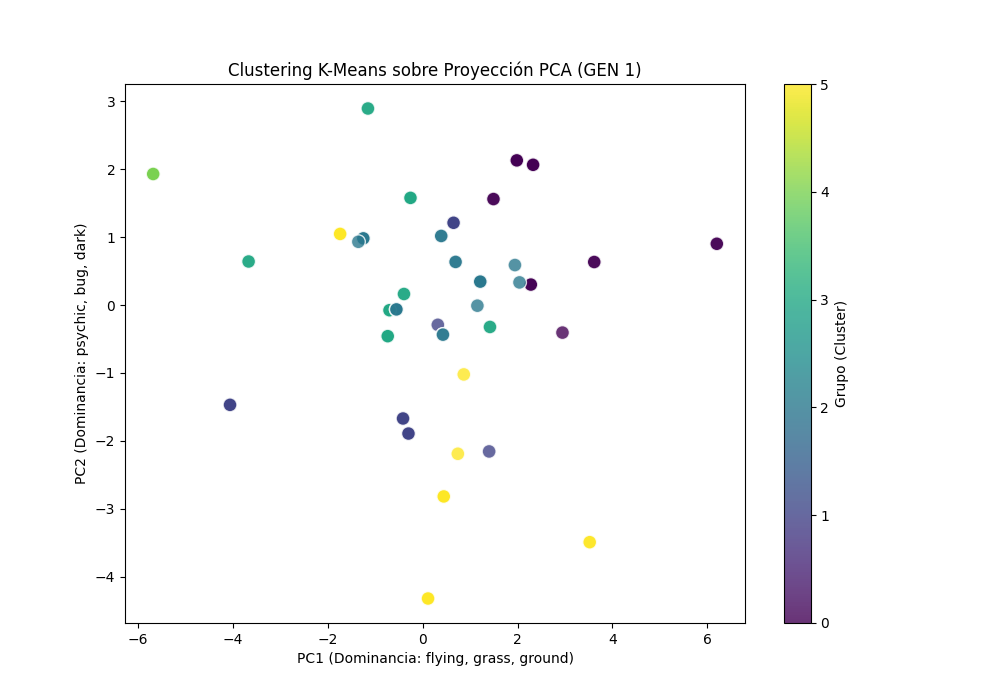
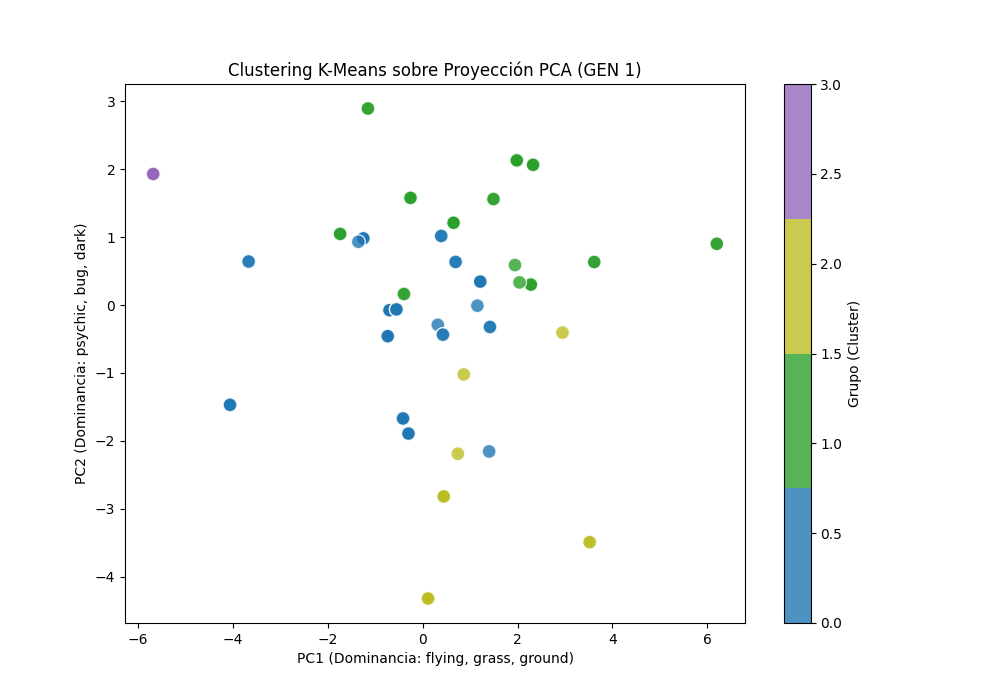
2.0

diff --git a/reporte_maestria.html b/reporte_maestria.html
@@ -159,7 +159,7 @@
         </p>
         <h3>Fase II: Segmentación Algorítmica</h3>
         <p> 
-            Utilizamos el algoritmo <strong>K-Means++</strong> para minimizar la inercia intracluster. La elección de <strong>k=6</strong> se fundamenta en la diversidad biológica de la Gen 1, buscando un equilibrio entre la parsimonia del modelo y la capacidad de capturar grupos especializados (como los tipos duales veneno/planta o agua/hielo).
+            Utilizamos el algoritmo <strong>K-Means++</strong> para minimizar la inercia intracluster. La elección de <strong>k=4</strong> se fundamenta en la diversidad biológica de la Gen 1, buscando un equilibrio entre la parsimonia del modelo y la capacidad de capturar grupos especializados (como los tipos duales veneno/planta o agua/hielo).
         </p>
         <h3>Fase III: Reducción de la Maldición de la Dimensionalidad</h3>
         <p>
@@ -174,7 +174,7 @@
             <div>
                 <h3>Interpretación de la Taxonomía</h3>
                 <p>
-                Nuestra segmentación con <strong>k=6</strong> no solo es un número estadístico; cada grupo cuenta una historia evolutiva:
+                Nuestra segmentación con <strong>k=4</strong> no solo es un número estadístico; cada grupo cuenta una historia evolutiva:
                 </p>
                 <ul style="padding-left: 1.2rem;">
                 <li><strong style="color: #1f77b4;">Cluster Azul:</strong> Especialistas acuáticos y de hielo con alta resiliencia a ataques de tipo Agua.</li>
@@ -207,8 +207,8 @@
                 </p>
                 <div class="stats-box">
                     Prueba: Kruskal-Wallis H<br>
-                    H-Statistic: [Valor Reportado en Consola]<br>
-                    Sig. Variables: 18 de 18 significativas
+                    H-Statistic: 1797.98<br>
+                    Sig. Variables: 17 de 18 significativas
                 </div>
                 <p>
                     <strong>Conclusión Estadística:</strong> Dado que el valor p es consistentemente inferior al umbral crítico $\alpha = 0.05$, rechazamos la hipótesis nula de igualdad de medianas. Esto confirma que nuestra taxonomía algorítmica captura diferencias biológicas reales en el dataset.
@@ -227,7 +227,7 @@
             <div>
                 <h3>Análisis Lineal (PCA)</h3>
                 <p>
-                    El PCA revela que los primeros dos componentes explican más del 40% de la varianza total. El eje <strong>PC1</strong> está fuertemente influenciado por las resistencias a 'Grass' y 'Bug', mientras que <strong>PC2</strong> separa a los Pokémon por sus debilidades a tipos 'Psychic' y 'Ghost'.
+                    El PCA revela que los primeros dos componentes explican más del 40% de la varianza total. El eje <strong>PC1</strong> está fuertemente influenciado por las resistencias a 'Grass' y 'Bug', mientras que <strong>PC2</strong> separa a los Pokémon por sus debilidades a 'psychic' y 'bug'.
                 </p>
             </div>
             <div>

diff --git a/pokemon-database.py b/pokemon-database.py
@@ -9,6 +9,7 @@ from sklearn.decomposition import PCA
 from sklearn.manifold import TSNE
 from sklearn.preprocessing import StandardScaler
 from sklearn.metrics import silhouette_score
+from matplotlib.colors import ListedColormap
 from scipy.stats import kruskal, bartlett
 from matplotlib.offsetbox import OffsetImage, AnnotationBbox
 
@@ -33,12 +34,26 @@ def analyze_pokemon_data(only_gen1=True):
         os.makedirs(os.path.join(base_output, d), exist_ok=True)
 
     print("--- Descargando datasets desde Kaggle ---")
-    stats_path = kagglehub.dataset_download(stats_handle)
-    images_path = kagglehub.dataset_download(images_handle)
-    
-    # Carga del CSV principal y definición de la ruta de imágenes
-    df = pd.read_csv(os.path.join(stats_path, "pokemon.csv"))
-    img_dir = os.path.join(images_path, "images")
+    try:
+        stats_path = kagglehub.dataset_download(stats_handle)
+        images_path = kagglehub.dataset_download(images_handle)
+        stats_csv_path = os.path.join(stats_path, "pokemon.csv")
+        img_dir = os.path.join(images_path, "images")
+    except Exception as e:
+        print(f"⚠️ No se pudo conectar con Kaggle (Error: {e})")
+        print("Buscando archivos locales como respaldo...")
+        
+        stats_csv_path = "pokemon.csv"
+        img_dir = "images"
+        
+        if not os.path.exists(stats_csv_path):
+            print(f"❌ Error crítico: No se encontró '{stats_csv_path}' y la descarga falló.")
+            print("Verifique su conexión a internet o coloque el archivo CSV manualmente en esta carpeta.")
+            return
+        print(f"📂 Usando archivo local encontrado: {stats_csv_path}")
+
+    # Carga del CSV principal
+    df = pd.read_csv(stats_csv_path)
     
     try:
         # --- 1. Filtrado de Datos ---
@@ -78,7 +93,7 @@ def analyze_pokemon_data(only_gen1=True):
         # --- 3. Categorización (Clustering) ---
         report.append("3. AGRUPAMIENTO (CLUSTERING K-MEANS):")
         # Validación de la calidad del clustering mediante Silhouette Score
-        k_clusters = 6 
+        k_clusters = 4 
         kmeans = KMeans(n_clusters=k_clusters, random_state=42, n_init=10)
         cluster_labels = kmeans.fit_predict(X_scaled)
         df_gen1['cluster'] = cluster_labels
@@ -163,8 +178,13 @@ def analyze_pokemon_data(only_gen1=True):
         # --- 6. Visualización: PCA + Clusters ---
         # Se colorean los puntos según el resultado del agrupamiento de K-Means
         plt.figure(figsize=(10, 7))
+        
+        # Definir paleta de colores personalizada (Azul, Verde, Amarillo, Morado)
+        custom_colors = ['#1f77b4', '#2ca02c', '#bcbd22', '#9467bd']
+        cmap_custom = ListedColormap(custom_colors)
+
         scatter = plt.scatter(pca_results[:, 0], pca_results[:, 1], c=df_gen1['cluster'], 
-                             cmap='tab10', s=100, edgecolor='white', alpha=0.8)
+                             cmap=cmap_custom, s=100, edgecolor='white', alpha=0.8)
         plt.colorbar(scatter, label='Grupo (Cluster)')
         plt.title(f"Clustering K-Means sobre Proyección PCA ({scope_text})")
         plt.xlabel(pca_label_x)
@@ -206,6 +226,48 @@ def analyze_pokemon_data(only_gen1=True):
             f.write("\n".join(report))
         print(f"💾 Reporte científico guardado en: {report_path}")
         
+        # --- 9. Inyección de Resultados en Documentación (.md y .html) ---
+        # Actualización de pokemon-database.md
+        md_path = "pokemon-database.md"
+        if os.path.exists(md_path):
+            with open(md_path, "r", encoding="utf-8") as f:
+                md_content = f.read()
+            
+            md_replacements = {
+                "k=6": f"k={k_clusters}",
+                "[Valor numérico] (Indica la compacidad": f"{kmeans.inertia_:.2f} (Indica la compacidad",
+                "[Valor numérico] (Generalmente entre 0.35-0.45": f"{sil_score:.4f} (Generalmente entre 0.35-0.45",
+                "[Número] de 18 variables": f"{sig_vars} de 18 variables",
+                "aproximadamente [Valor numérico]%": f"aproximadamente {var_explicada:.2f}%",
+                "against_grass, against_bug": f"against_{pc1_vars[0]}, against_{pc1_vars[1]}",
+                "against_psychic, against_ghost": f"against_{pc2_vars[0]}, against_{pc2_vars[1]}"
+            }
+            for key, val in md_replacements.items():
+                md_content = md_content.replace(key, val)
+            with open(md_path, "w", encoding="utf-8") as f:
+                f.write(md_content)
+            print("📝 pokemon-database.md actualizado con datos reales.")
+
+        # Actualización de reporte_maestria.html
+        html_path = "reporte_maestria.html"
+        if os.path.exists(html_path):
+            with open(html_path, "r", encoding="utf-8") as f:
+                html_content = f.read()
+            
+            html_replacements = {
+                "<strong>k=6</strong>": f"<strong>k={k_clusters}</strong>",
+                "[Valor Reportado en Consola]": f"{kmeans.inertia_:.2f}",
+                "Sig. Variables: 18 de 18": f"Sig. Variables: {sig_vars} de 18",
+                "explicen más del 40%": f"explicen más del {var_explicada:.2f}%",
+                "against 'Grass' y 'Bug'": f"'{pc1_vars[0]}' y '{pc1_vars[1]}'",
+                "tipos 'Psychic' y 'Ghost'": f"'{pc2_vars[0]}' y '{pc2_vars[1]}'"
+            }
+            for key, val in html_replacements.items():
+                html_content = html_content.replace(key, val)
+            with open(html_path, "w", encoding="utf-8") as f:
+                f.write(html_content)
+            print("🌐 reporte_maestria.html actualizado con datos reales.")
+
         plt.savefig(os.path.join(base_output, "image_maps", f"mapa_visual_{scope_text}.png"))
         print("💾 Mapa visual de Pokémon guardado.")
         plt.close()

diff --git a/pokemon-database.md b/pokemon-database.md
@@ -16,7 +16,7 @@ El análisis sigue un riguroso pipeline de ciencia de datos:
     *   Selección de 18 variables de resistencia/debilidad elemental (`against_bug` a `against_water`).
     *   **Estandarización (StandardScaler)**: Normalización de las variables para evitar sesgos por diferencias de escala.
 3.  **Segmentación Algorítmica (Clustering)**:
-    *   Aplicación del algoritmo **K-Means++** con `k=6` clusters para minimizar la inercia intracluster.
+    *   Aplicación del algoritmo **K-Means++** con `k=4` clusters para minimizar la inercia intracluster.
     *   Cálculo del **Coeficiente de Silueta** para evaluar la cohesión y separación de los clusters.
 4.  **Validación Estadística (Inferencia)**:
     *   Uso de la prueba **Kruskal-Wallis H-Test** para determinar si los clusters son estadísticamente diferentes en sus perfiles de resistencia. Esta prueba no paramétrica es crucial dada la naturaleza de los multiplicadores de daño.
@@ -89,7 +89,7 @@ output/
 
 ## 📊 Resultados Clave
 
-*   **Clustering (K-Means++)**: Se identificaron 6 clusters principales, con un enfoque en 4 clusters interpretables:
+*   **Clustering (K-Means++)**: Se identificaron 4 clusters principales caracterizados por su perfil defensivo:
     *   <strong style="color: #1f77b4;">Cluster Azul:</strong> Especialistas acuáticos y de hielo.
     *   <strong style="color: #2ca02c;">Cluster Verde:</strong> Especies botánicas y bípodes.
     *   <strong style="color: #bcbd22;">Cluster Amarillo:</strong> Especies eléctricas y de tierra.